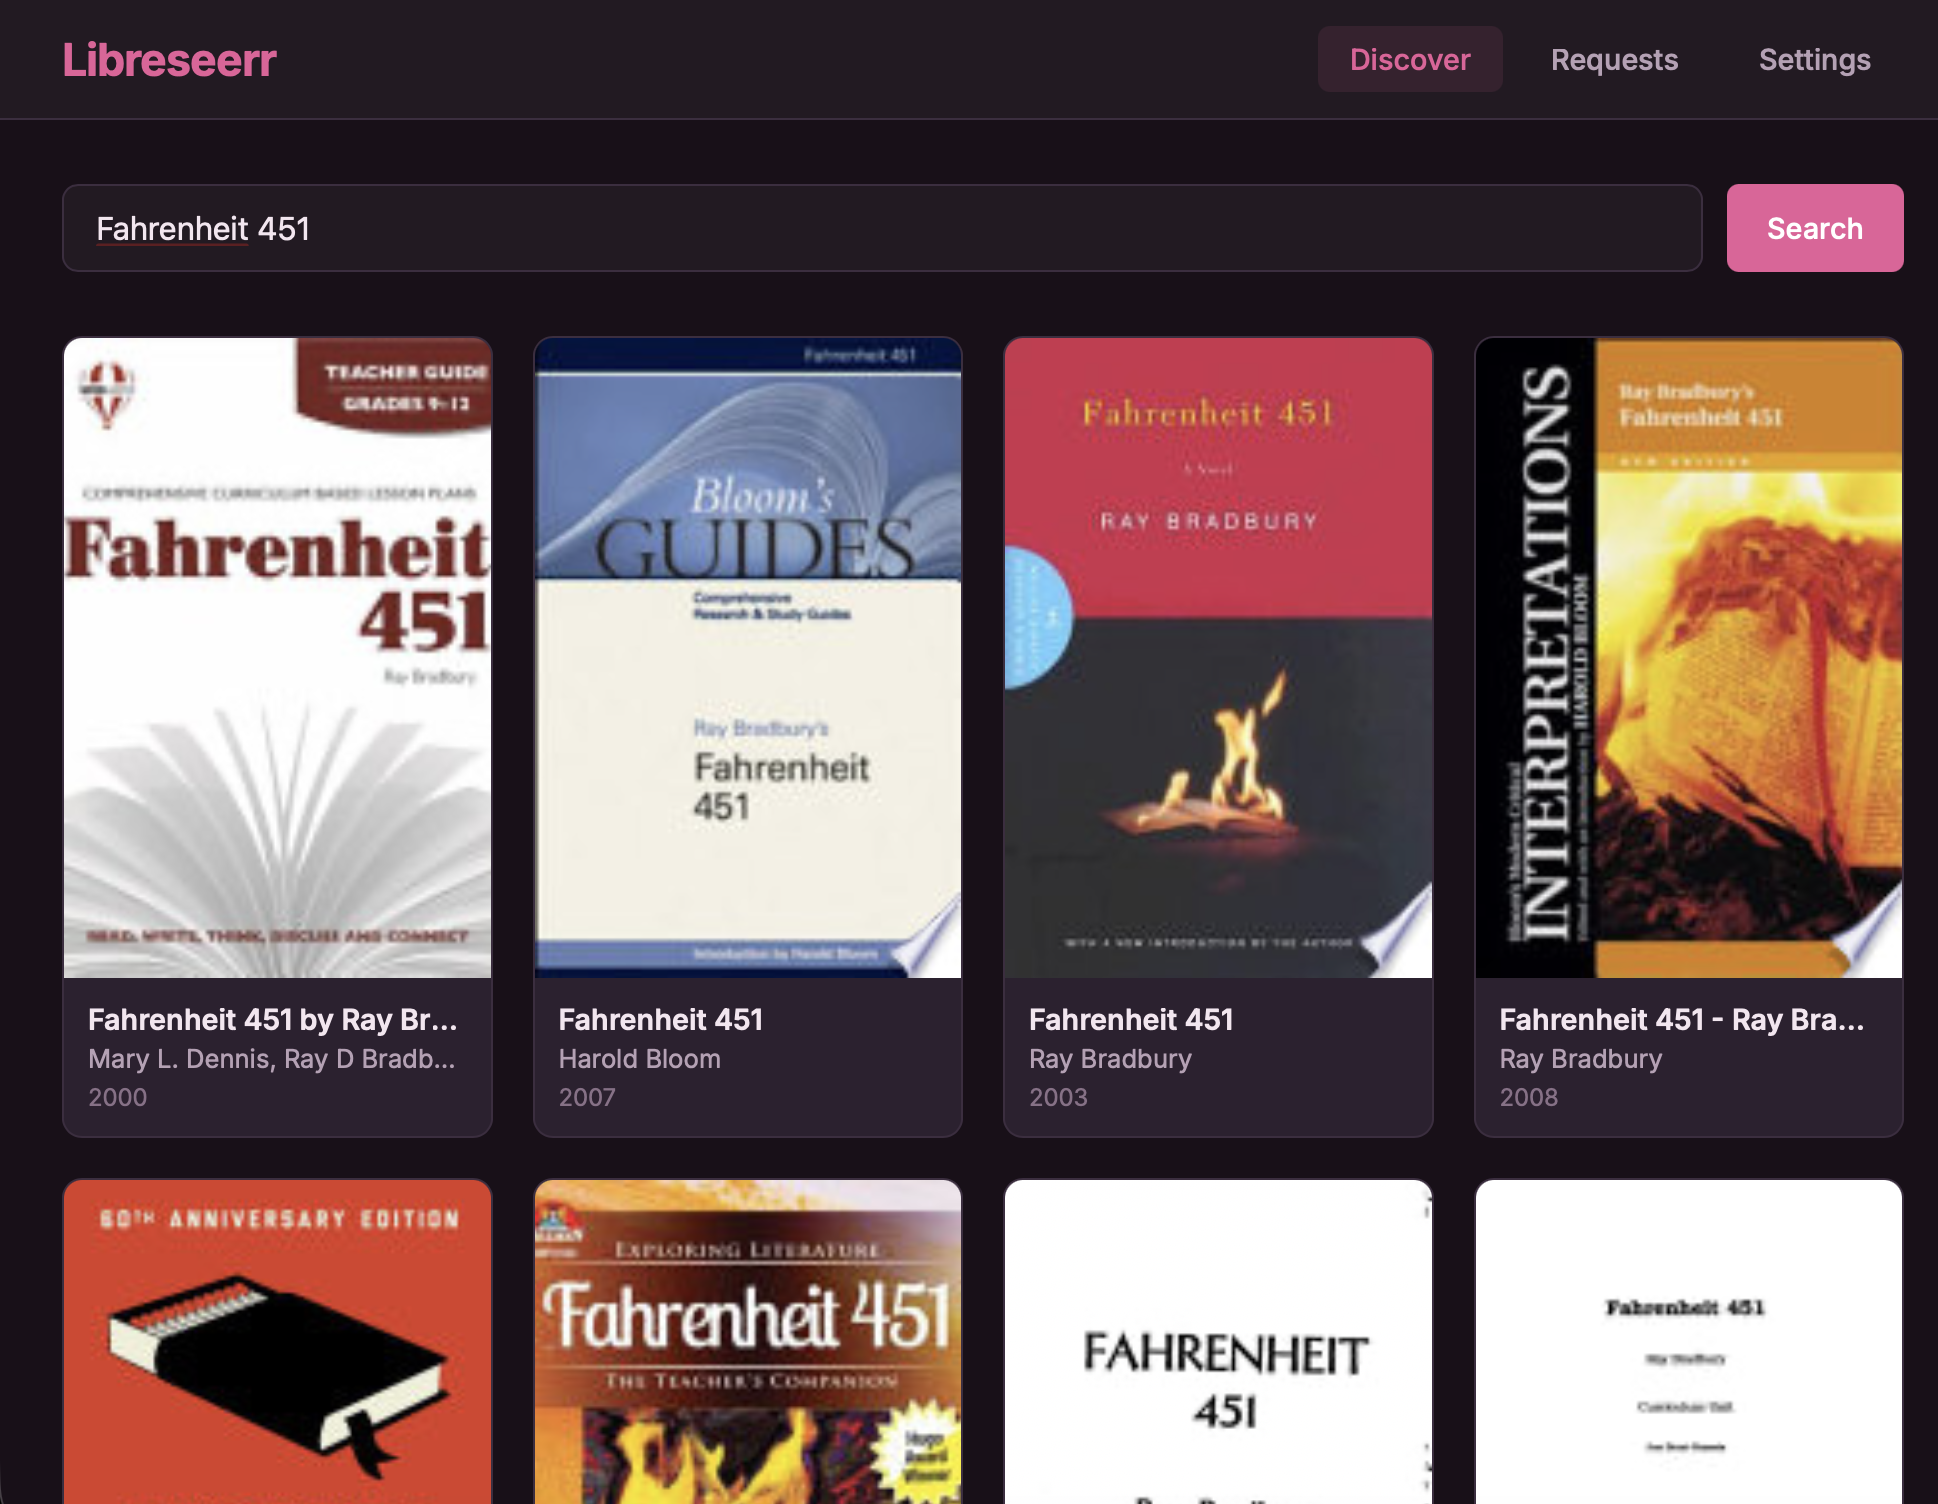
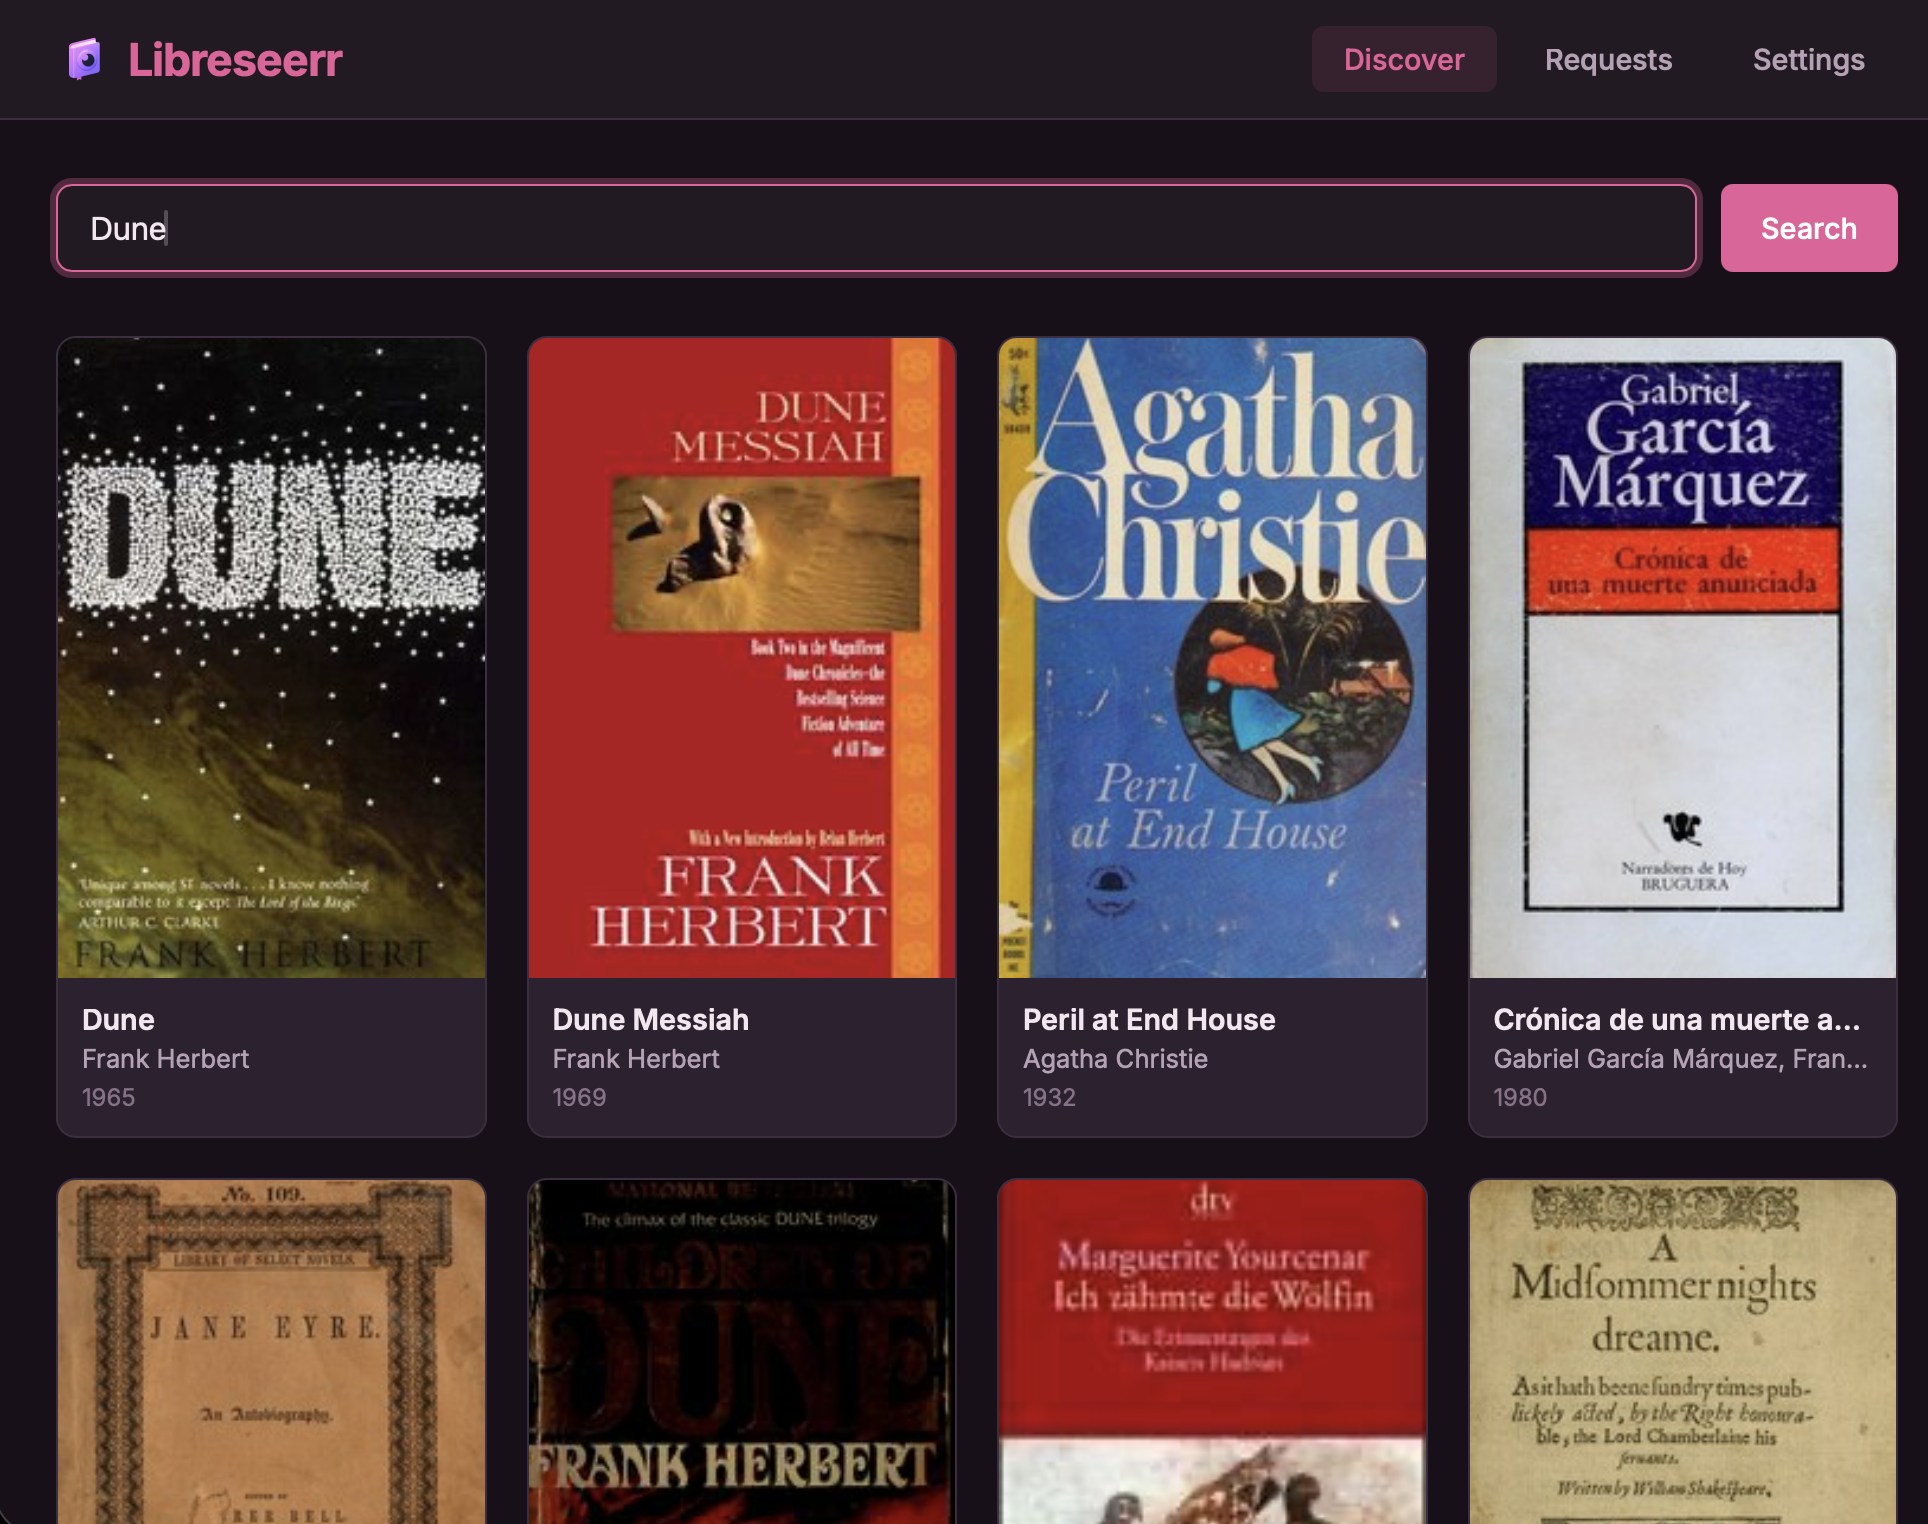
Branding Updates

diff --git a/README.md b/README.md
@@ -1,3 +1,7 @@
+<p align="center">
+  <img src="branding/LibreseerrLogo.png" alt="Libreseerr" width="200">
+</p>
+
 # Libreseerr
 
 Libreseerr is a book request management application for [Readarr](https://readarr.com/). It provides a simple web interface for users to search for books and request ebook or audiobook downloads similar to how [Overseerr](https://overseerr.dev/) and [Jellyseerr](https://github.com/Fallenbagel/jellyseerr) work for movies and TV shows with Sonarr/Radarr, but for books with Readarr.
